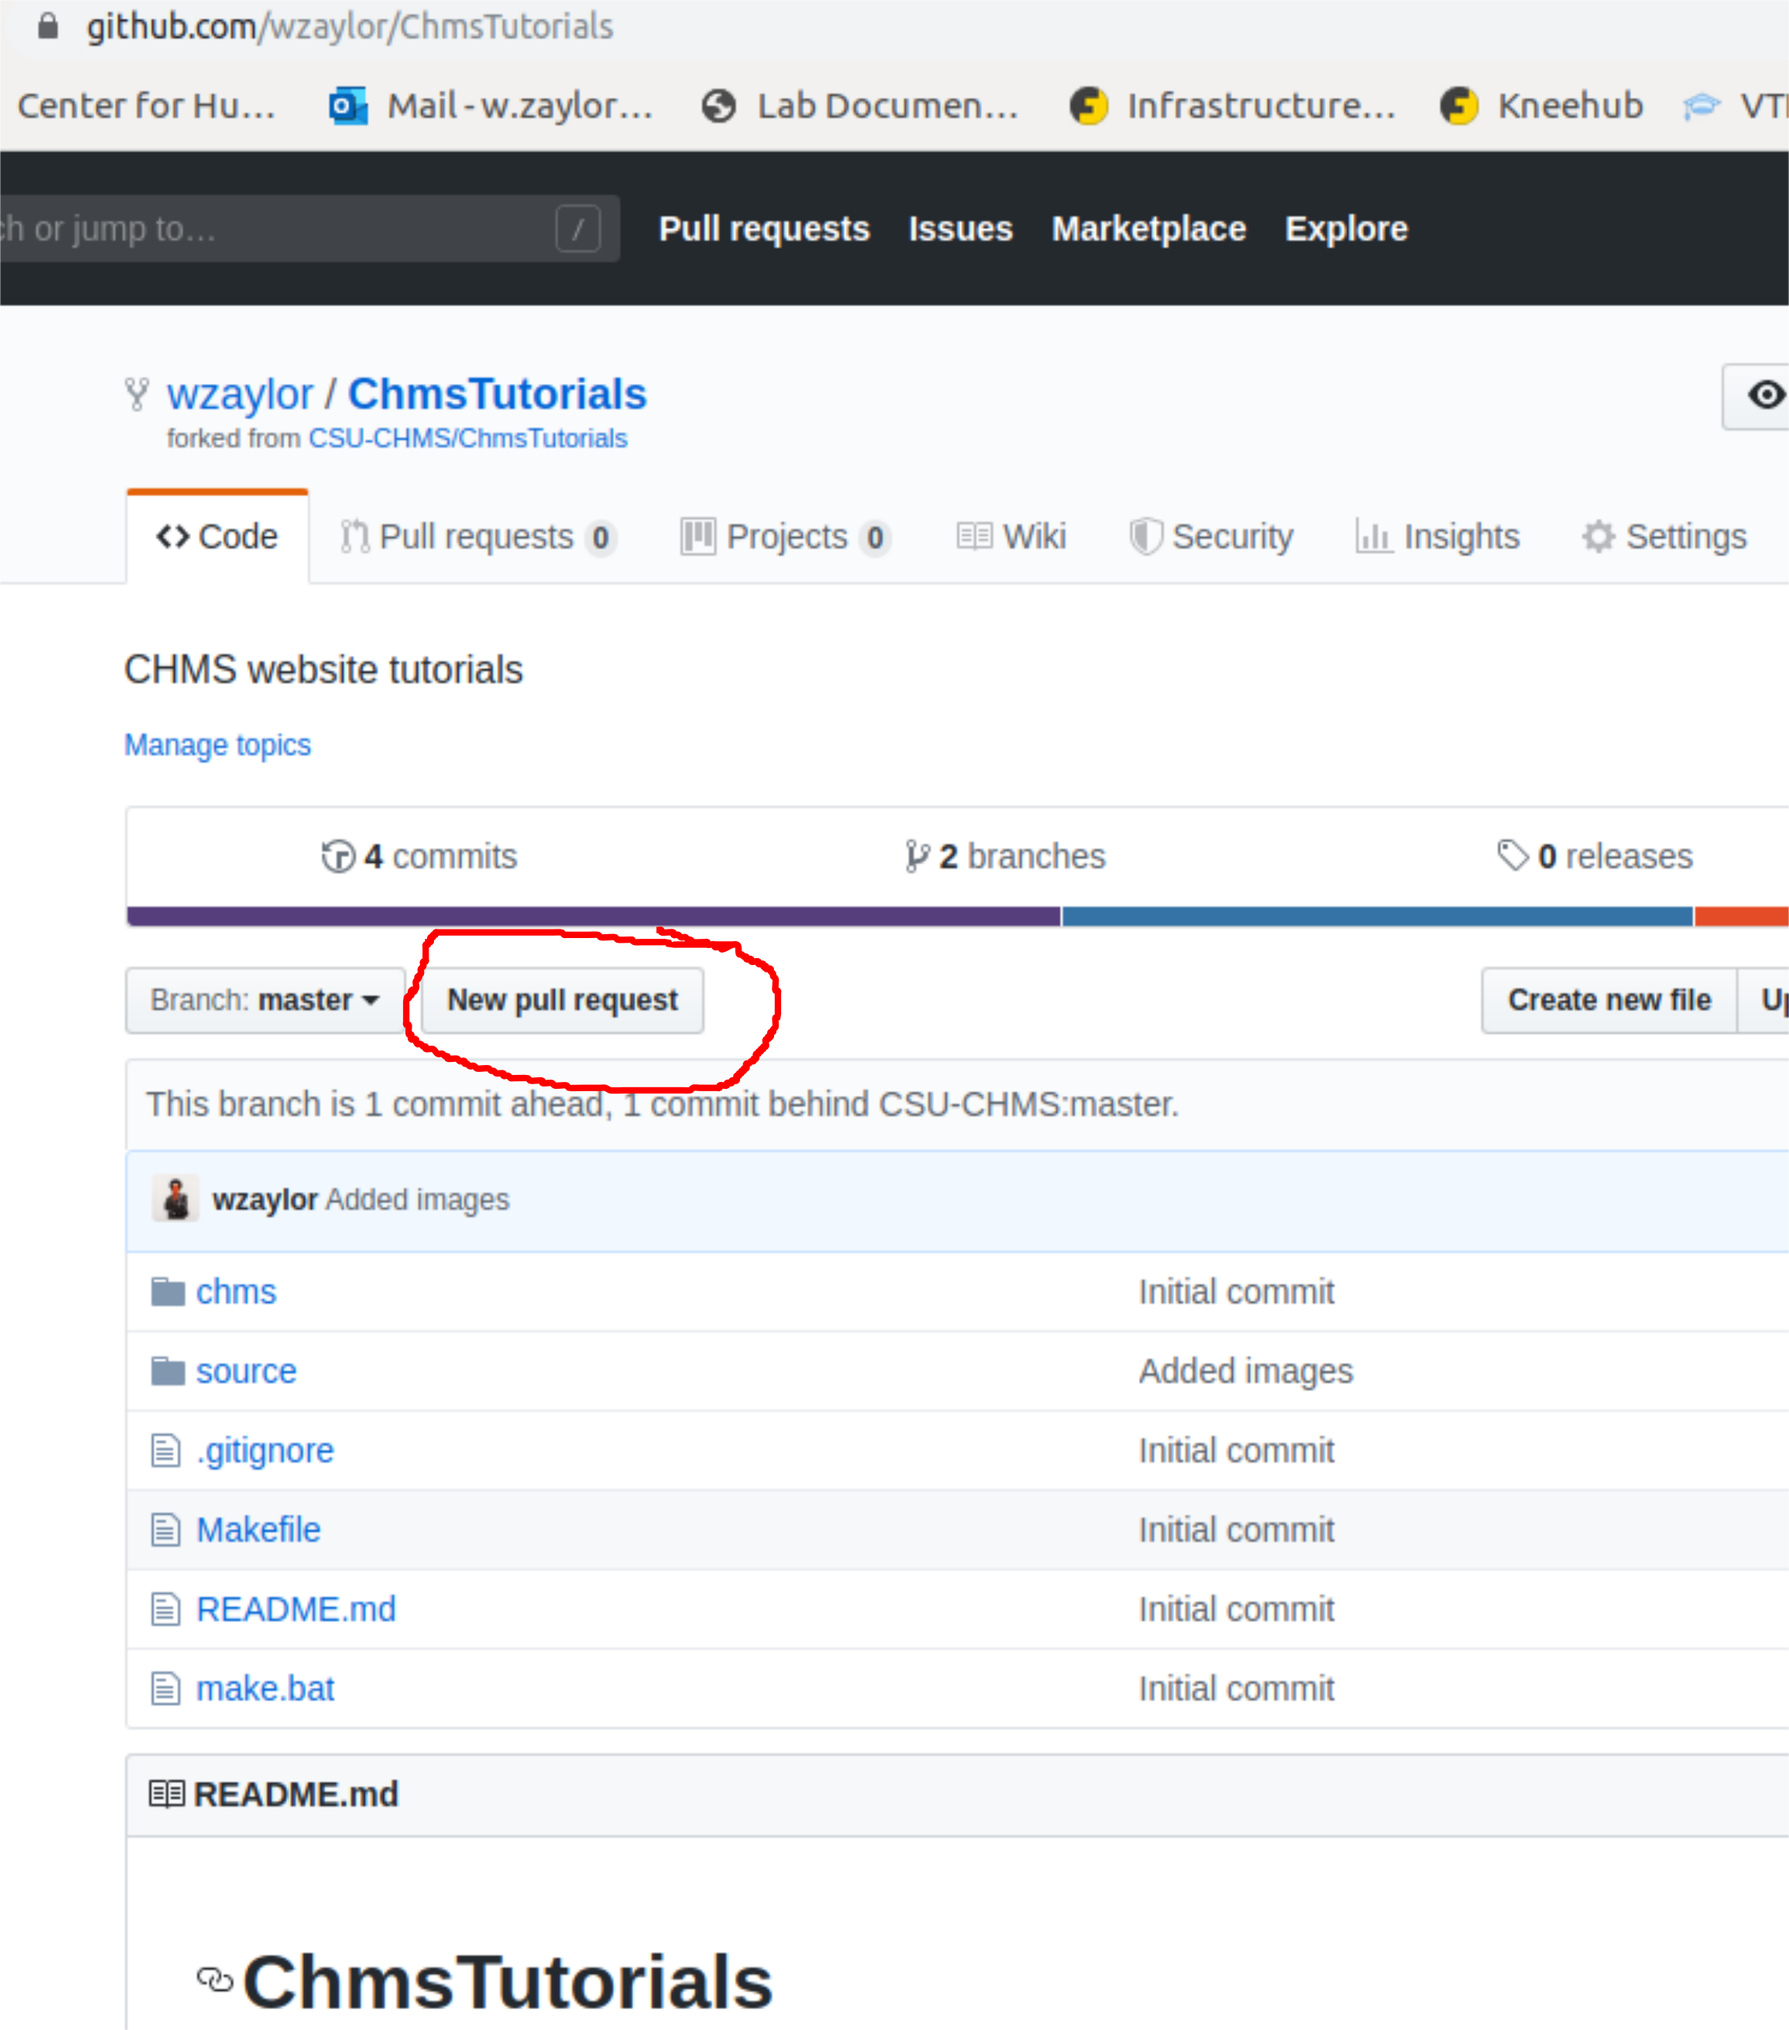
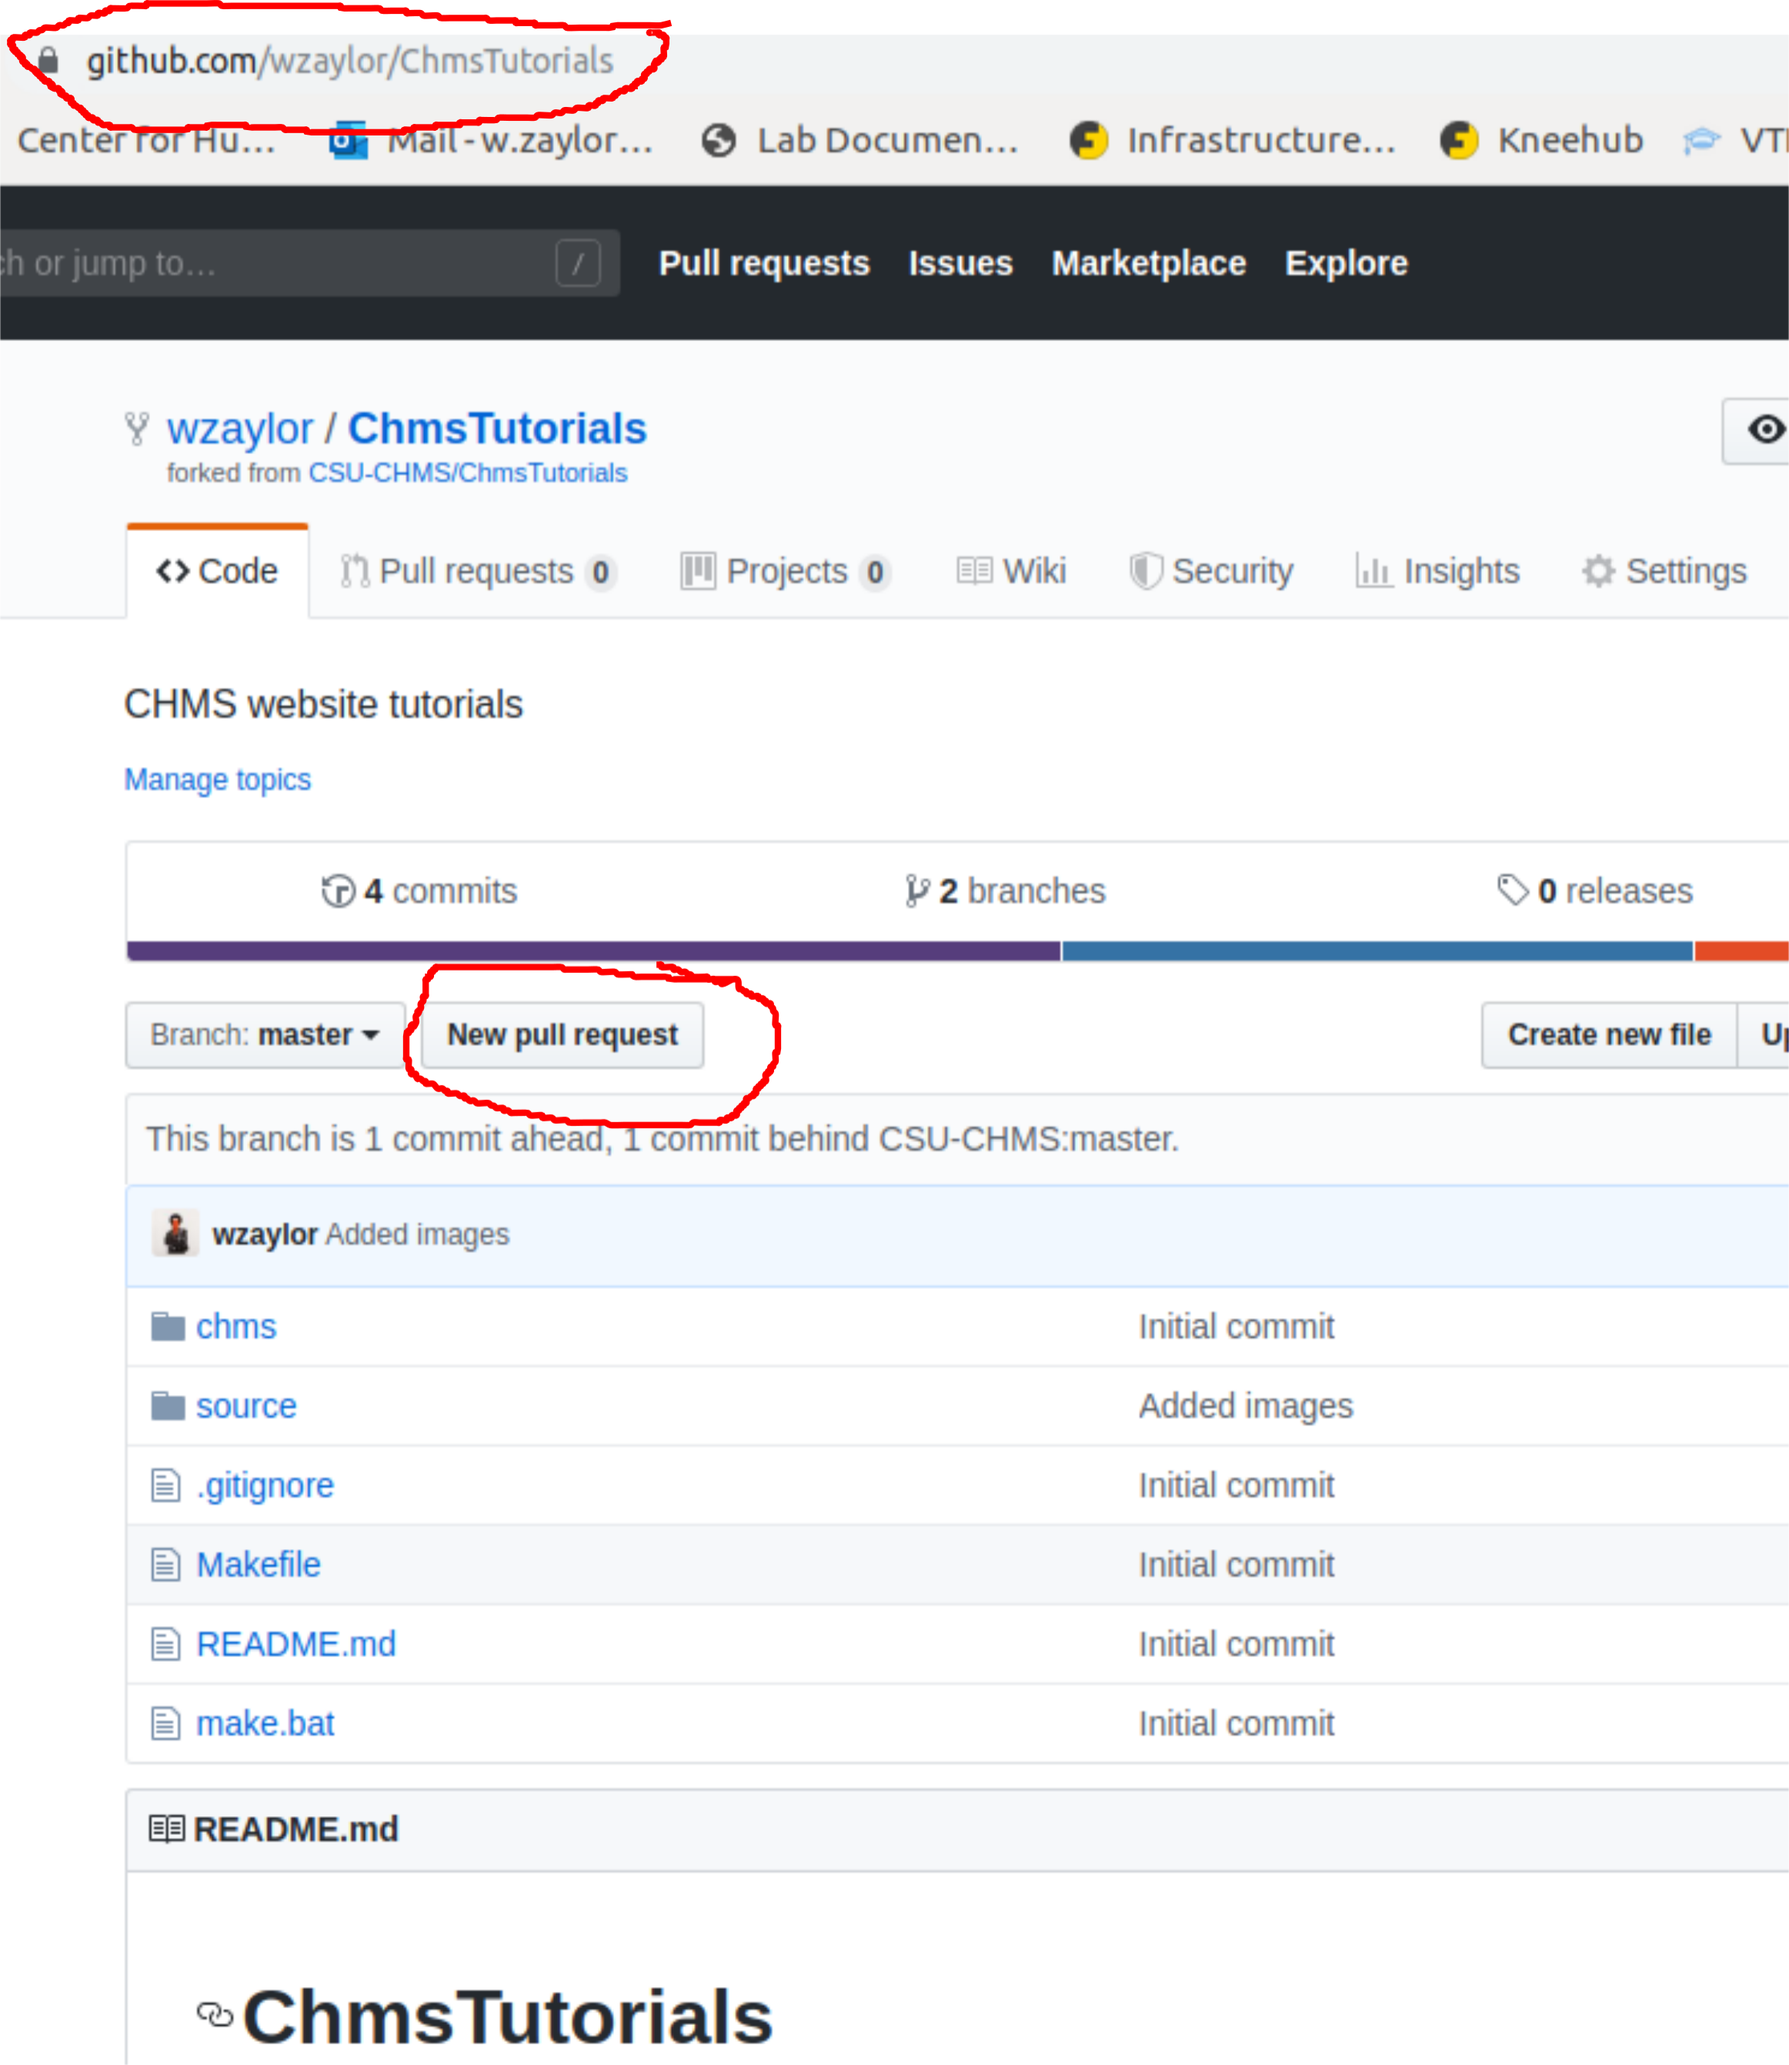
Clarified the tutorials tutorial

diff --git a/chms/Mechanics/Mechanics/index.html b/chms/Mechanics/Mechanics/index.html
@@ -17,7 +17,7 @@
     <link rel="index" title="Index" href="../../genindex/" />
     <link rel="search" title="Search" href="../../search/" />
     <link rel="next" title="Documentation Tutorials" href="../../Documentation/Documentation/" />
-    <link rel="prev" title="Control Tutorials" href="../../Controls/Controls/" />
+    <link rel="prev" title="Controls Tutorials" href="../../Controls/Controls/" />
 <link href="/images/siteimages/favicon.ico" rel="shortcut icon">
     <title>Center for Human-Machine Systems</title>
     <!-- Bootstrap -->
@@ -69,6 +69,7 @@
             
   <div class="section" id="mechanics-tutorials">
 <span id="mechanicstutorials"></span><h1>Mechanics Tutorials<a class="headerlink" href="#mechanics-tutorials" title="Permalink to this headline">¶</a></h1>
+<p>The section is under development.</p>
 </div>
 
 
@@ -93,7 +94,7 @@
 <ul class="current">
 <li class="toctree-l1"><a class="reference internal" href="../../Python/Python/">Python Tutorials</a></li>
 <li class="toctree-l1"><a class="reference internal" href="../../Matlab/Matlab/">Matlab Tutorials</a></li>
-<li class="toctree-l1"><a class="reference internal" href="../../Controls/Controls/">Control Tutorials</a></li>
+<li class="toctree-l1"><a class="reference internal" href="../../Controls/Controls/">Controls Tutorials</a></li>
 <li class="toctree-l1 current"><a class="current reference internal" href="#">Mechanics Tutorials</a></li>
 <li class="toctree-l1"><a class="reference internal" href="../../Documentation/Documentation/">Documentation Tutorials</a></li>
 </ul>
@@ -101,7 +102,7 @@
 <h3>Related Topics</h3>
 <ul>
   <li><a href="../../">Documentation overview</a><ul>
-      <li>Previous: <a href="../../Controls/Controls/" title="previous chapter">Control Tutorials</a></li>
+      <li>Previous: <a href="../../Controls/Controls/" title="previous chapter">Controls Tutorials</a></li>
       <li>Next: <a href="../../Documentation/Documentation/" title="next chapter">Documentation Tutorials</a></li>
   </ul></li>
 </ul>

diff --git a/chms/Controls/Controls/index.html b/chms/Controls/Controls/index.html
@@ -69,6 +69,7 @@
             
   <div class="section" id="controls-tutorials">
 <span id="controlstutorials-rst"></span><h1>Controls Tutorials<a class="headerlink" href="#controls-tutorials" title="Permalink to this headline">¶</a></h1>
+<p>The section is under development.</p>
 </div>
 
 

diff --git a/source/Documentation/Website_tutorials/CreateNewTutorial.rst b/source/Documentation/Website_tutorials/CreateNewTutorial.rst
@@ -148,7 +148,7 @@ This section describes the general workflow that is used when making changes to 
         Push your committed changes.
 
 #) Continue to add new files or change existing files, and follow the previous steps as needed. Go to the next step when you want to put your changes into the main public repository.
-#) After you have *pushed* your changes to your forked repository, go to your account on github.com and create a *New Pull Request*. Then click *Create pull request*. Add any additional comments, then click *Create pull request*.
+#) After you have *pushed* your changes to your forked repository, go to your account on github.com and create a *New Pull Request*. Then click *Create pull request*. Add any additional comments, then click *Create pull request*. Note that the web address is likely something similar to ``github.com/userName/ChmsTutorials``
 
     .. figure:: /Documentation/img/WebsiteTutorialGithubWorkflow3a.png
         :width: 300px
@@ -156,7 +156,7 @@ This section describes the general workflow that is used when making changes to 
         :alt: alternate text
         :figclass: align-center
 
-        Create a new pull request.
+        Create a new pull request. Note the web address.
 
     .. figure:: /Documentation/img/WebsiteTutorialGithubWorkflow3b.png
         :width: 400px
